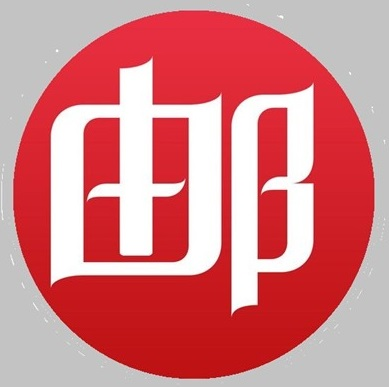
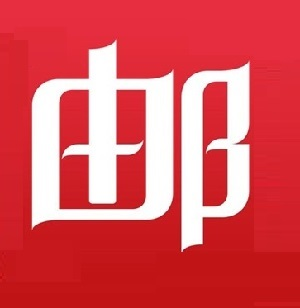
改变图标

diff --git a/static/js/web_js.js b/static/js/web_js.js
@@ -5,7 +5,7 @@ function main(){
 	show_time();
 	show_words();
 //	show_weather();
-	round_mode_on();
+//	round_mode_on();
 }
 function show_time(){
 	var time = new Date(); //获得当前时间
